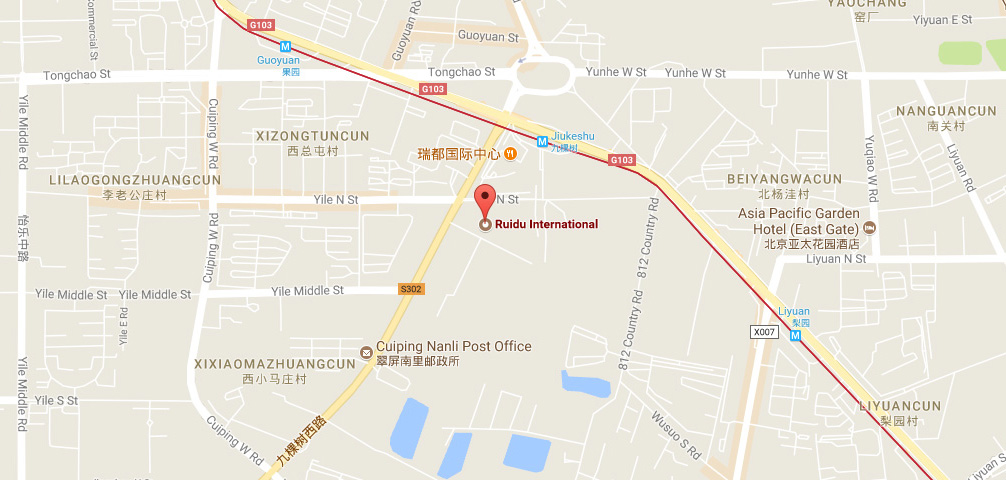
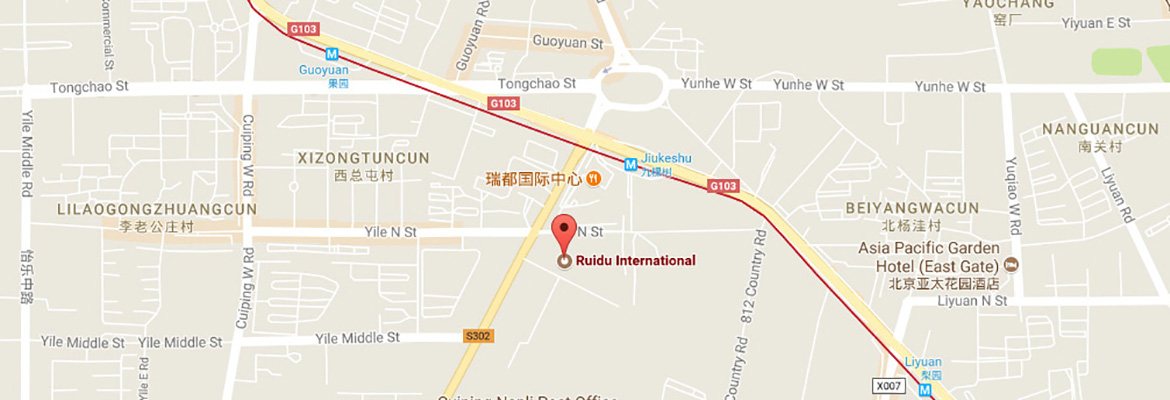
up

diff --git a/pages/contact.html b/pages/contact.html
@@ -13,6 +13,6 @@ description: Contact Us
   <p><i class="fas fa-envelope margin-right-10"></i>Email: <a href="mailto:{{ site.email }}">{{ site.email }}</a></p>
   </ul>
   <div class="margin-top-40 image-margin-center">
-    <a href="https://goo.gl/maps/cnwYV6qMuqA2" target="_blank" rel="noopener"><amp-img itemprop="image" src="{{ site.url }}/images/contact/map.jpg" width="1170" height="500" layout="responsive" alt="Asiasilvervine Google Map"></amp-img></a>
+    <a href="https://goo.gl/maps/cnwYV6qMuqA2" target="_blank" rel="noopener"><amp-img itemprop="image" src="{{ site.url }}/images/contact/map.jpg" width="1170" height="400" layout="responsive" alt="Asiasilvervine Google Map"></amp-img></a>
   </div>
 </div>
